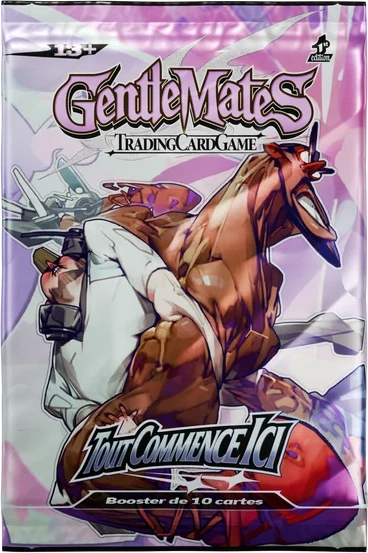
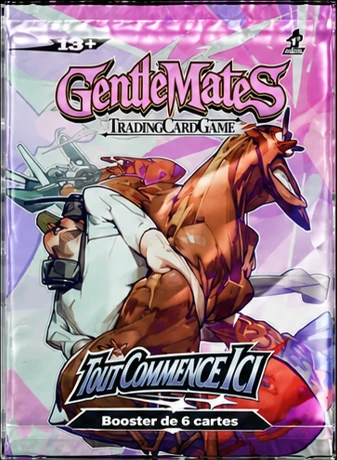
fix

diff --git a/index.html b/index.html
@@ -42,16 +42,16 @@
 <link href="https://fonts.googleapis.com/css2?family=Archivo:ital,wdth,wght@0,62..125,400..900;1,62..125,700..900&family=Figtree:wght@400;600;700;800&display=swap" rel="stylesheet">
 
 <!-- Styles : l'ordre compte (les jetons d'abord) -->
-<link rel="stylesheet" href="css/tokens.css?v=2.7.0">
-<link rel="stylesheet" href="css/base.css?v=2.7.0">
-<link rel="stylesheet" href="css/cards.css?v=2.7.0">
-<link rel="stylesheet" href="css/booster.css?v=2.7.0">
-<link rel="stylesheet" href="css/opening.css?v=2.7.0">
-<link rel="stylesheet" href="css/viewer.css?v=2.7.0">
-<link rel="stylesheet" href="css/lab.css?v=2.7.0">
-<link rel="stylesheet" href="css/auth.css?v=2.7.0">
-<link rel="stylesheet" href="css/hub.css?v=2.7.0">
-<link rel="stylesheet" href="css/promo.css?v=2.7.0">
+<link rel="stylesheet" href="css/tokens.css?v=2.7.1">
+<link rel="stylesheet" href="css/base.css?v=2.7.1">
+<link rel="stylesheet" href="css/cards.css?v=2.7.1">
+<link rel="stylesheet" href="css/booster.css?v=2.7.1">
+<link rel="stylesheet" href="css/opening.css?v=2.7.1">
+<link rel="stylesheet" href="css/viewer.css?v=2.7.1">
+<link rel="stylesheet" href="css/lab.css?v=2.7.1">
+<link rel="stylesheet" href="css/auth.css?v=2.7.1">
+<link rel="stylesheet" href="css/hub.css?v=2.7.1">
+<link rel="stylesheet" href="css/promo.css?v=2.7.1">
 </head>
 <body>
 <div class="bgdeco" aria-hidden="true"></div>
@@ -86,34 +86,34 @@
 <script src="https://cdn.jsdelivr.net/npm/@supabase/supabase-js@2.116.0/dist/umd/supabase.min.js" crossorigin="anonymous"></script>
 
 <!-- Code du jeu : l'ordre compte, app.js en dernier -->
-<script src="js/config.js?v=2.7.0"></script>
-<script src="js/supabase-config.js?v=2.7.0"></script>
-<script src="js/utils.js?v=2.7.0"></script>
-<script src="js/sfx.js?v=2.7.0"></script>
-<script src="js/cards-data.js?v=2.7.0"></script>
-<script src="js/promos-data.js?v=2.7.0"></script>
-<script src="js/cards.js?v=2.7.0"></script>
-<script src="js/storage.js?v=2.7.0"></script>
-<script src="js/render-card.js?v=2.7.0"></script>
-<script src="js/ui.js?v=2.7.0"></script>
-<script src="js/backend.js?v=2.7.0"></script>
-<script src="js/gate.js?v=2.7.0"></script>
-<script src="js/auth.js?v=2.7.0"></script>
-<script src="js/fx.js?v=2.7.0"></script>
-<script src="js/booster.js?v=2.7.0"></script>
-<script src="js/opening.js?v=2.7.0"></script>
-<script src="js/collection.js?v=2.7.0"></script>
-<script src="js/viewer.js?v=2.7.0"></script>
-<script src="js/trade.js?v=2.7.0"></script>
-<script src="js/social.js?v=2.7.0"></script>
-<script src="js/quests.js?v=2.7.0"></script>
-<script src="js/promos.js?v=2.7.0"></script>
-<script src="js/shop.js?v=2.7.0"></script>
-<script src="js/battle.js?v=2.7.0"></script>
-<script src="js/profile.js?v=2.7.0"></script>
-<script src="js/settings.js?v=2.7.0"></script>
-<script src="js/pwa.js?v=2.7.0"></script>
-<script src="js/lab.js?v=2.7.0"></script>
-<script src="js/app.js?v=2.7.0"></script>
+<script src="js/config.js?v=2.7.1"></script>
+<script src="js/supabase-config.js?v=2.7.1"></script>
+<script src="js/utils.js?v=2.7.1"></script>
+<script src="js/sfx.js?v=2.7.1"></script>
+<script src="js/cards-data.js?v=2.7.1"></script>
+<script src="js/promos-data.js?v=2.7.1"></script>
+<script src="js/cards.js?v=2.7.1"></script>
+<script src="js/storage.js?v=2.7.1"></script>
+<script src="js/render-card.js?v=2.7.1"></script>
+<script src="js/ui.js?v=2.7.1"></script>
+<script src="js/backend.js?v=2.7.1"></script>
+<script src="js/gate.js?v=2.7.1"></script>
+<script src="js/auth.js?v=2.7.1"></script>
+<script src="js/fx.js?v=2.7.1"></script>
+<script src="js/booster.js?v=2.7.1"></script>
+<script src="js/opening.js?v=2.7.1"></script>
+<script src="js/collection.js?v=2.7.1"></script>
+<script src="js/viewer.js?v=2.7.1"></script>
+<script src="js/trade.js?v=2.7.1"></script>
+<script src="js/social.js?v=2.7.1"></script>
+<script src="js/quests.js?v=2.7.1"></script>
+<script src="js/promos.js?v=2.7.1"></script>
+<script src="js/shop.js?v=2.7.1"></script>
+<script src="js/battle.js?v=2.7.1"></script>
+<script src="js/profile.js?v=2.7.1"></script>
+<script src="js/settings.js?v=2.7.1"></script>
+<script src="js/pwa.js?v=2.7.1"></script>
+<script src="js/lab.js?v=2.7.1"></script>
+<script src="js/app.js?v=2.7.1"></script>
 </body>
 </html>

diff --git a/css/booster.css b/css/booster.css
@@ -15,7 +15,11 @@
 /* `translate` est une propriété à part : le flottement se compose avec la rotation posée par le script. */
 .pack3d{position:relative;transform-style:preserve-3d;will-change:transform;animation:packbob 5.4s ease-in-out infinite}
 @keyframes packbob{50%{translate:0 -10px}}
-.pack{position:relative;display:block;width:min(66vw,calc((100dvh - 400px) * .665),340px);height:auto;aspect-ratio:368/553;
+/* `aspect-ratio` et le facteur du `calc` disent la même chose — les
+   proportions du visuel de paquet (337 x 460). Les deux doivent bouger
+   ensemble si les images changent : le premier dessine la boîte, le second
+   empêche qu'elle dépasse en hauteur sur un écran bas. */
+.pack{position:relative;display:block;width:min(66vw,calc((100dvh - 400px) * .733),340px);height:auto;aspect-ratio:337/460;
   touch-action:none;user-select:none;-webkit-user-select:none;cursor:grab;transform-style:preserve-3d;
   filter:drop-shadow(0 28px 40px rgba(0,0,0,.72));transition:filter .25s}
 .pack:active{cursor:grabbing}
@@ -88,7 +92,7 @@
 
 /* ============ Déchirure (le paquet vit dans la même scène que la pile) ============ */
 /* Posé par-dessus la pile : tant qu'il est là, les cartes sont « dedans ». */
-.packrip{position:absolute;left:50%;top:50%;z-index:5;width:113%;aspect-ratio:368/553;translate:-50% -50%;
+.packrip{position:absolute;left:50%;top:50%;z-index:5;width:113%;aspect-ratio:337/460;translate:-50% -50%;
   transform-style:preserve-3d;pointer-events:none;filter:drop-shadow(0 26px 38px rgba(0,0,0,.75))}
 .rp-body{position:absolute;inset:0;width:100%;height:100%;object-fit:contain}
 /* Bord déchiré : la même ligne en dents de scie sur les deux moitiés du paquet. */

diff --git a/verif.html b/verif.html
@@ -8,8 +8,8 @@
 <meta name="theme-color" content="#0c0910">
 <link rel="icon" href="assets/favicon.svg" type="image/svg+xml">
 <link href="https://fonts.googleapis.com/css2?family=Archivo:ital,wdth,wght@0,62..125,400..900;1,62..125,700..900&family=Figtree:wght@400;600;700;800&display=swap" rel="stylesheet">
-<link rel="stylesheet" href="css/tokens.css?v=2.7.0">
-<link rel="stylesheet" href="css/base.css?v=2.7.0">
+<link rel="stylesheet" href="css/tokens.css?v=2.7.1">
+<link rel="stylesheet" href="css/base.css?v=2.7.1">
 <style>
 /* Page d'outillage : volontairement sobre, elle ne fait pas partie du jeu. */
 body{display:block;height:auto;min-height:100%}
@@ -71,8 +71,8 @@ code{background:var(--bg-2);border:1px solid var(--line);border-radius:5px;paddi
 </div>
 
 <script src="https://cdn.jsdelivr.net/npm/@supabase/supabase-js@2.116.0/dist/umd/supabase.min.js" crossorigin="anonymous"></script>
-<script src="js/config.js?v=2.7.0"></script>
-<script src="js/supabase-config.js?v=2.7.0"></script>
+<script src="js/config.js?v=2.7.1"></script>
+<script src="js/supabase-config.js?v=2.7.1"></script>
 <script>
 "use strict";
 

diff --git a/css/promo.css b/css/promo.css
@@ -1,7 +1,7 @@
 /* La scène d'obtention d'une carte Promo.
 
    Elle emprunte au théâtre d'ouverture sans le copier : là-bas on déchire un
-   paquet et dix cartes défilent ; ici il n'y en a qu'une, et tout l'écran est
+   paquet et six cartes défilent ; ici il n'y en a qu'une, et tout l'écran est
    pour elle. Un fond qui tourne, une carte qui arrive de loin dos tourné, un
    retournement, puis le nom. */
 

diff --git a/presse/visuels.html b/presse/visuels.html
@@ -139,7 +139,7 @@
     <span class="tag">Tout commence ici</span>
     <div class="chiffres">
       <div class="ch"><b>122</b><span>cartes</span></div>
-      <div class="ch"><b>10</b><span>par booster</span></div>
+      <div class="ch"><b>6</b><span>par booster</span></div>
       <div class="ch"><b>6</b><span>boosters / jour</span></div>
       <div class="ch"><b>0 €</b><span>pour jouer</span></div>
     </div>

diff --git a/js/pwa.js b/js/pwa.js
@@ -5,7 +5,7 @@
    marche à suivre, une seule fois, et seulement après quelques minutes de jeu. */
 "use strict";
 
-const APP_VERSION = '2.7.0';
+const APP_VERSION = '2.7.1';
 
 const PWA = { invite: null, installe: false, dejaVu: false };
 const PWA_CLE = 'mtcg.install';

diff --git a/sw.js b/sw.js
@@ -7,7 +7,7 @@
    Rien de ce qui touche au compte n'est mis en cache. */
 "use strict";
 
-const VERSION = 'mtcg-v2.7.0';
+const VERSION = 'mtcg-v2.7.1';
 const COQUILLE = VERSION + '-coquille';
 const MEDIAS = VERSION + '-medias';
 

diff --git a/tools/kit-presse.py b/tools/kit-presse.py
@@ -298,7 +298,7 @@ def v3_chiffres():
     im = fond(l, h, .40)
     d = ImageDraw.Draw(im)
     ruban(im, l / 2, 148, 'Tout commence ici', GRAS(17))
-    for k, (v, lib) in enumerate([('122', 'cartes'), ('10', 'par booster'),
+    for k, (v, lib) in enumerate([('122', 'cartes'), ('6', 'par booster'),
                                   ('6', 'boosters / jour'), ('0 €', 'pour jouer')]):
         chiffre(im, d, l / 2 + (k - 1.5) * 224, 318, v, lib)
     texte(im, (l / 2, 470),

diff --git a/README.md b/README.md
@@ -181,7 +181,7 @@ Il n'a ni écran, ni lettrage, ni surbrillance carte par carte : **c'est la lumi
 
 Dans un godpack, `announce()` **n'ajoute pas** la surbrillance de rareté carte par carte : toutes les cartes sont des hits, les éclairs bleus et violets ne feraient que brouiller l'or. Seule la légendaire finale garde sa révélation complète.
 
-> `PACK_SIZE` sert à l'affichage ; c'est `makeBooster()` qui décide vraiment du contenu — et, en ligne, `open_pack()` dans `supabase/03_rpc.sql`, qui seul fait foi. Les trois doivent bouger ensemble. Les visuels de paquet fournis portent la mention imprimée « Booster de 10 cartes » : elle vient des images d'origine, pas du jeu.
+> `PACK_SIZE` sert à l'affichage ; c'est `makeBooster()` qui décide vraiment du contenu — et, en ligne, `open_pack()` dans `supabase/03_rpc.sql`, qui seul fait foi. Les trois doivent bouger ensemble. Les visuels de paquet portent la mention imprimée « Booster de 6 cartes » : si le nombre change, il faut refaire les images, sinon le paquet ment sur ce qu'il contient.
 
 ## Ajouter une carte
 
@@ -221,7 +221,7 @@ Dans un godpack, `announce()` **n'ajoute pas** la surbrillance de rareté carte 
 
 Les visuels de la marque vivent dans `assets/` et sont déclarés dans `js/config.js` :
 
-- `boosters/booster-01…04.webp` — les quatre paquets. Un est tiré au sort à chaque ouverture, **sans aucun effet sur le contenu**.
+- `boosters/booster-01…04.webp` — les quatre paquets, 337 × 460, recadrés au ras du plastique. Un est tiré au sort à chaque ouverture, **sans aucun effet sur le contenu**. Leurs proportions sont reprises à la main dans `css/booster.css` (`aspect-ratio` de `.pack` et de `.packrip`, et le facteur du `calc()` qui plafonne la largeur) : remplacer les images sans toucher à ces trois valeurs laisserait le paquet flotter dans une boîte qui n'est plus la sienne.
 - `essences/<couleur>.svg` et `essences/neutre.png` — les dix symboles d'essence, utilisés dans les filtres de collection et la fiche d'une carte. Leurs couleurs officielles sont reprises dans `COLORS` (`js/config.js`), avec un bleu légèrement éclairci pour rester lisible sur fond sombre.
 - `card-back.webp` — le dos affiché quand la dernière carte se retourne.
 - `extension-logo.svg` — le logo de l'extension, en haut de l'écran Boosters et sur le récap.

diff --git a/presse/README.md b/presse/README.md
@@ -22,7 +22,7 @@ un chiffre.
 |---|---|---|
 | `01-annonce-paysage.png` | 1200 × 675 | Le tweet d'annonce. Logo, nom de l'extension, promesse, adresse. |
 | `02-cartes-paysage.png` | 1200 × 675 | Cinq légendaires en éventail. Le visuel qui donne envie d'ouvrir. |
-| `03-chiffres-paysage.png` | 1200 × 675 | 122 cartes, 10 par booster, 6 par jour, 0 €. Pour couper court aux questions. |
+| `03-chiffres-paysage.png` | 1200 × 675 | 122 cartes, 6 par booster, 6 par jour, 0 €. Pour couper court aux questions. |
 | `04-booster-portrait.png` | 1080 × 1350 | Portrait, occupe toute la hauteur du fil sur mobile. |
 | `05-promos-carre.png` | 1080 × 1080 | Les quatre cartes Promo. Le post « pour les collectionneurs ». |
 | `06-teaser-paysage.png` | 1200 × 675 | « Coming soon », à poster **avant** l'ouverture. |
@@ -121,7 +121,7 @@ simulation.
 3. Les écrans qui valent le détour :
    - **Boosters** — le paquet et la réserve pleine
    - **l'ouverture** — juste après la révélation d'une légendaire
-   - **le récap** — la grille des dix cartes
+   - **le récap** — la grille des six cartes
    - **Collection** — avec une bonne moitié des cases remplies
    - **une carte en grand** — depuis la Collection, elle tourne en 3D
    - **les Promos** — le bas de l'onglet Collection
